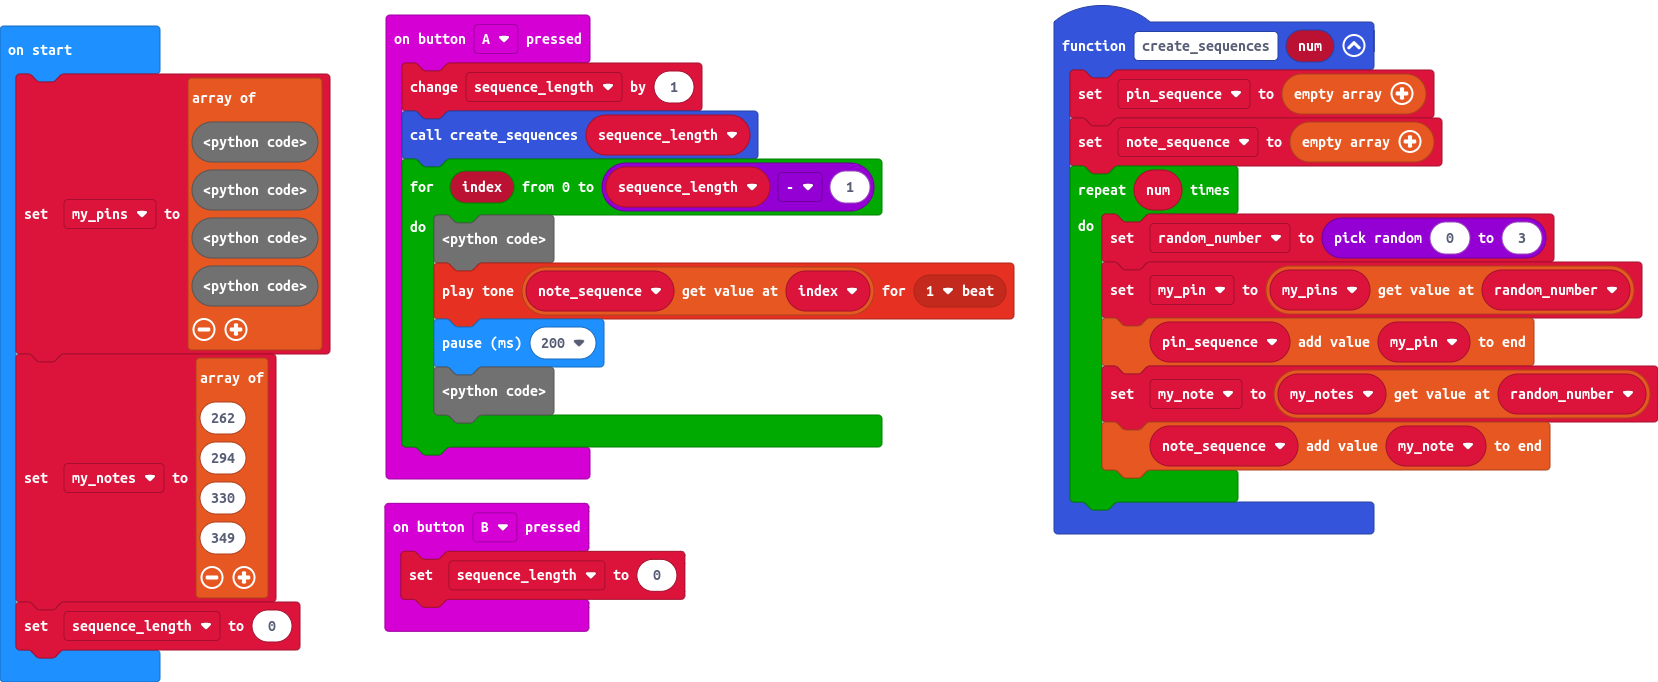
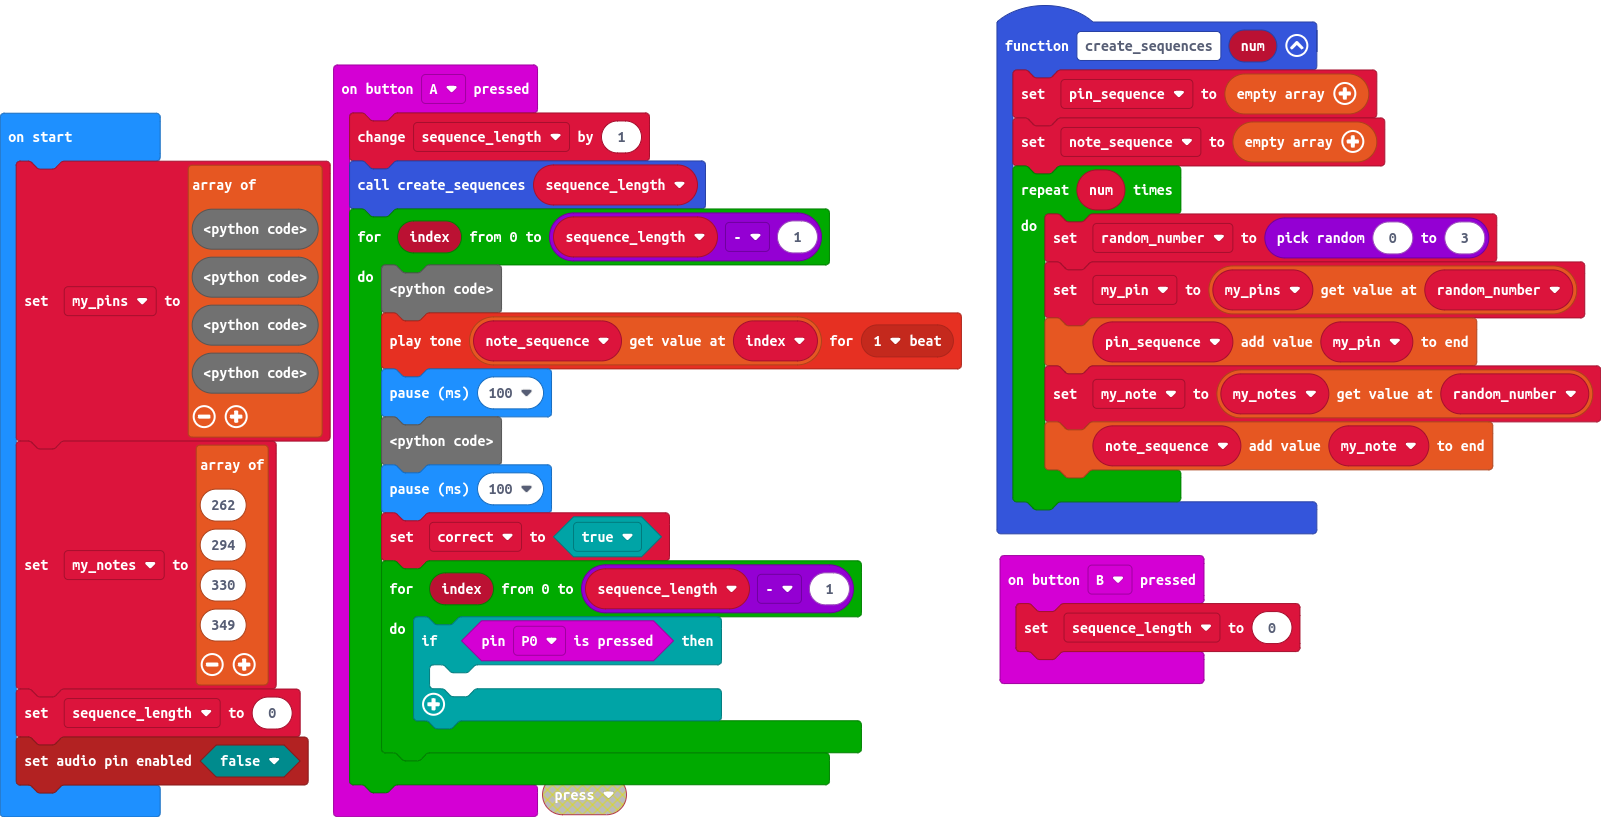
Update main.blocks, main.ts

diff --git a/main.ts b/main.ts
@@ -4,8 +4,15 @@ input.onButtonPressed(Button.A, function () {
     for (let index = 0; index <= sequence_length - 1; index++) {
         pins.digitalWritePin(pin_sequence[index], 1)
 music.playTone(note_sequence[index], music.beat(BeatFraction.Whole))
-        basic.pause(200)
+        basic.pause(100)
         pins.digitalWritePin(pin_sequence[index], 0)
+basic.pause(100)
+        correct = true
+        for (let index = 0; index <= sequence_length - 1; index++) {
+            if (input.pinIsPressed(TouchPin.P0)) {
+            	
+            }
+        }
     }
 })
 input.onButtonPressed(Button.B, function () {
@@ -26,6 +33,7 @@ let my_note = 0
 let my_pin = 0
 let random_number = 0
 let pin_sequence: number[] = []
+let correct = false
 let note_sequence: number[] = []
 let sequence_length = 0
 let my_notes: number[] = []
@@ -43,3 +51,4 @@ my_notes = [
 349
 ]
 sequence_length = 0
+pins.setAudioPinEnabled(false)
